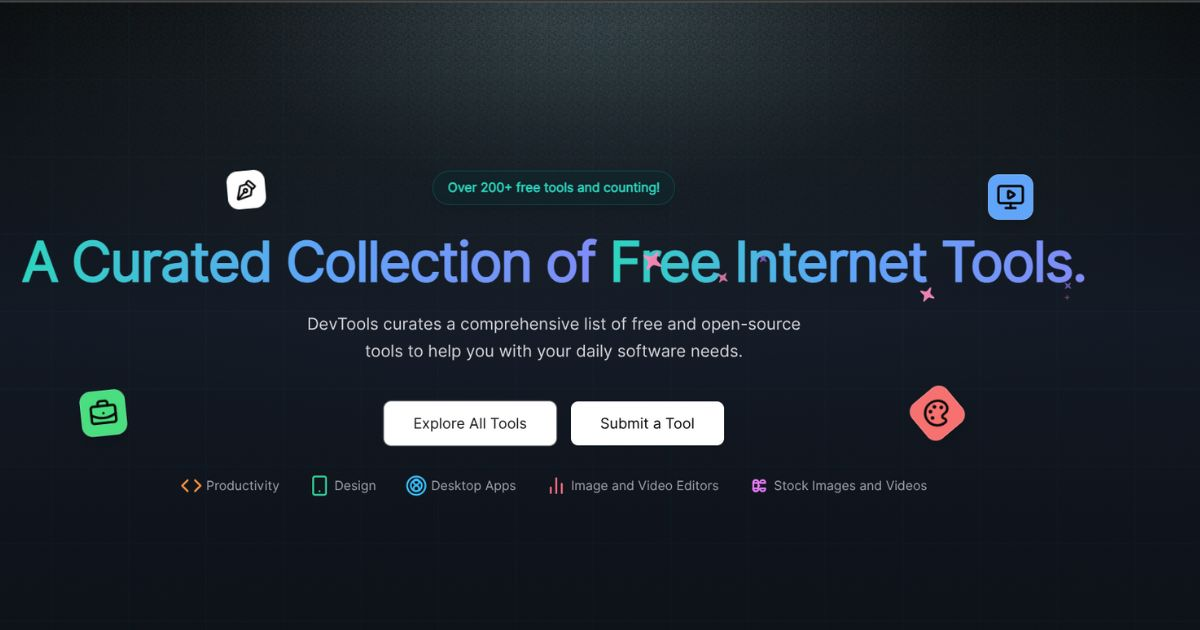
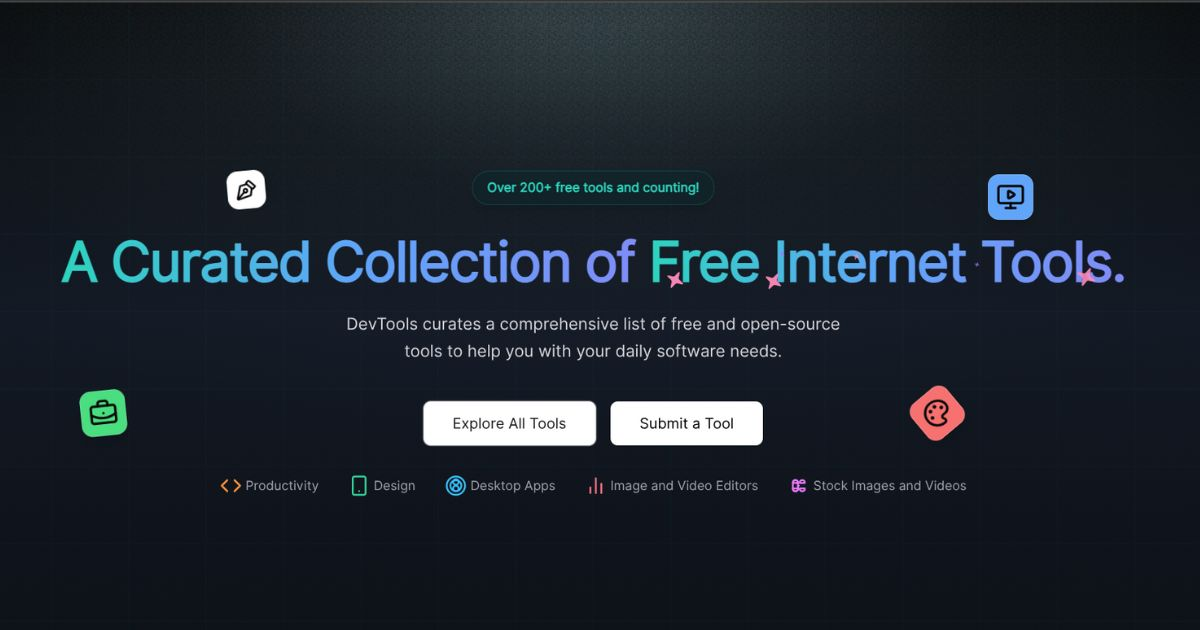
fix: adjust layout

diff --git a/pages/index.tsx b/pages/index.tsx
@@ -105,7 +105,7 @@ const Home: React.FC<HomeProps> = ({ tools }) => {
             <div className="absolute inset-0 bg-gradient-to-b from-[#1F293A]/0 via-[#1F293A]/20 to-[#1F293A]/40"></div>
           </div>
 
-          <div className="relative z-20 max-w-7xl w-full flex items-center pb-8">
+          <div className="relative z-20 max-w-7xl w-full block items-center pb-8">
             <section className="flex flex-col items-center text-center px-4">
               <div className="mb-8">
                 <div className="font-semibold flex items-center gap-2 rounded-full border border-teal-800/60 bg-teal-950/30 px-4 py-2 text-sm text-teal-300 shadow-lg backdrop-blur-md transition-all duration-300 hover:border-teal-700/80 hover:bg-teal-950/50">
